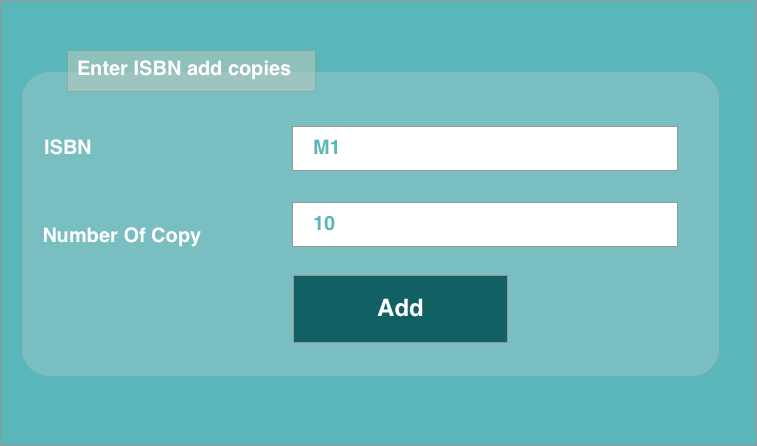
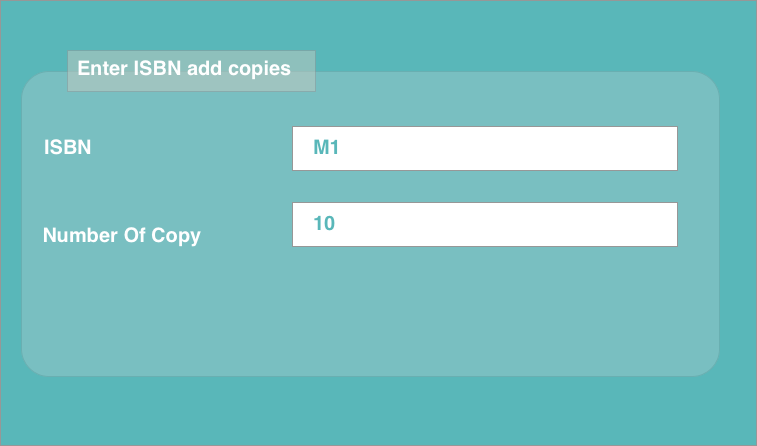
cancel button

Changed region(s): [[0.3646, 0.6121, 0.6684, 0.787]]

diff --git a/src/group3/lms/ui/AddBookCopyController.java b/src/group3/lms/ui/AddBookCopyController.java
@@ -1,20 +1,25 @@
 package group3.lms.ui;
 
 import java.sql.SQLException;
+import java.util.Optional;
 
 import group3.lms.business.BookDao;
 import group3.lms.business.entity.Book;
 import group3.lms.business.entity.BookCopy;
+import group3.lms.business.entity.User;
 import group3.lms.common.Common;
 import group3.lms.common.Messages;
 import group3.lms.dataaccess.DataAccess;
 import group3.lms.dataaccess.impl.DataAccessFactory;
+import group3.lms.ui.scene.SceneFactory;
 import javafx.event.ActionEvent;
 import javafx.fxml.FXML;
+import javafx.scene.Node;
 import javafx.scene.control.Alert.AlertType;
 import javafx.scene.control.Button;
+import javafx.scene.control.ButtonType;
 import javafx.scene.control.TextField;
-import javafx.scene.input.KeyEvent;
+import javafx.stage.Stage;
 
 public class AddBookCopyController {
 	@FXML
@@ -23,6 +28,8 @@ public class AddBookCopyController {
 	private TextField txtNumOfCopy;
 	@FXML
 	private Button btnAdd;
+	@FXML
+	private Button btnCancel;
 	private BookDao dao = new BookDao();
 	private DataAccess da = null;
 
@@ -30,10 +37,6 @@ public class AddBookCopyController {
 		// Read from the stored file
 		da = DataAccessFactory.getDataAccess();
 		da.read(dao);
-//		txtNumOfCopy.setOnKeyTyped(event ->{
-//	        int maxCharacters = 5;
-//	        if(txtNumOfCopy.getText().length() > maxCharacters) event.consume();
-//	    });
 	}
 
 	public void txtISBNEnter(ActionEvent event) {
@@ -43,24 +46,18 @@ public class AddBookCopyController {
 		txtNumOfCopy.requestFocus();
 	}
 
-	public void txtISBNOnKeyTyped(KeyEvent event) {
-		int maxCharacters = 10;
-//		txtISBN.setText(txtISBN.getText().trim());
-		if (txtISBN.getText().length() > maxCharacters) {
-			event.consume();
-			return;
+	public void clickCancel(ActionEvent event) {
+		Optional<ButtonType> result = Common.showMessage(AlertType.CONFIRMATION, Messages.NEW_MEMBER_CANCEL.getValue());
+		if (result.get() == ButtonType.OK) {
+			Stage primaryStage = (Stage) ((Node) event.getSource()).getScene().getWindow();
+			primaryStage.setTitle(Messages.TITLE_MAIN_SCREEN.getValue());
+			Object u = primaryStage.getUserData();
+			if (u != null) {
+				primaryStage.setScene(SceneFactory.createMainScreen(((User) u).getRoles()));
+			} else {
+				primaryStage.setScene(SceneFactory.createLoginScreen());
+			}
 		}
-		return;
-	}
-
-	public void txtNumCopOnKeyTyped(KeyEvent event) {
-		int maxCharacters = 4;
-//		txtNumOfCopy.setText(txtNumOfCopy.getText().trim());
-		if (txtNumOfCopy.getText().length() > maxCharacters) {
-			event.consume();
-			return;
-		}
-		return;
 	}
 
 	public void btnAddClickMe(ActionEvent event) {
@@ -70,9 +67,8 @@ public class AddBookCopyController {
 		if (bk == null)
 			return;
 
-		bk.clearCopy();
 		for (int i = 1; i <= Integer.valueOf(txtNumOfCopy.getText()); i++) {
-			bk.addCopy(new BookCopy(bk, i));
+			bk.addCopy(new BookCopy(bk, bk.getCopies().size() + i));
 		}
 		try {
 			da.write(dao);

diff --git a/src/group3/lms/common/Messages.java b/src/group3/lms/common/Messages.java
@@ -4,10 +4,10 @@ public enum Messages {
 	COMMON_INTERNAL_ERROR("Unknow error occurred, please try again."),
 	COMMON_SUCCESS_MESSAGE("Your changes have been saved successfully."),
 	//INPUT MESSAGES
-	INPUT_ISBN("Please input ISBN of book!"),
-	INPUT_NUM_OF_COPY("Please input number of copy!"),
-	INPUT_USER_NAME("Please input user name!"),
-	INPUT_PASSWORD("Please input password!"),
+	INPUT_ISBN("ISBN of book is not allowed empty!"),
+	INPUT_NUM_OF_COPY("Number of copy is not allowed empty!"),
+	INPUT_USER_NAME("User name is not allowed empty!"),
+	INPUT_PASSWORD("Password is not allowed empty!"),
 	INPUT_CREATENEWMEMBER("Do you want to create a new member?"),
 	INPUT_NOT_NUMBER("Please input a number!"),	
 	

diff --git a/src/group3/lms/ui/LoginScreenController.java b/src/group3/lms/ui/LoginScreenController.java
@@ -29,13 +29,7 @@ public class LoginScreenController {
 	
 	public void txtNameEnter(ActionEvent event) {
 		if (txtName.getText() == null || txtName.getText().trim().equals("")) {
-			Optional<ButtonType> result =
-					Common.showMessage(AlertType.CONFIRMATION, Messages.INPUT_USER_NAME.getValue());
-			if (result.get() == ButtonType.OK) {
-				Common.showMessage(AlertType.INFORMATION, "OK");
-			} else {
-				Common.showMessage(AlertType.INFORMATION, "NOT OK");
-			}
+			Common.showMessage(AlertType.ERROR, Messages.INPUT_USER_NAME.getValue());
 			txtName.requestFocus();
 			return;
 		}

diff --git a/src/group3/lms/ui/scene/SceneFactory.java b/src/group3/lms/ui/scene/SceneFactory.java
@@ -83,7 +83,7 @@ public final class SceneFactory {
 		Scene scene = null;
 		try {
 			Parent root = FXMLLoader.load(SceneFactory.class.getResource(ADD_BOOK_COPY_SCREEN_FILE));
-			scene = new Scene(root, 590, 350);
+			scene = new Scene(root, 435, 235);
 		} catch (IOException e) {
 			e.printStackTrace();
 		}
